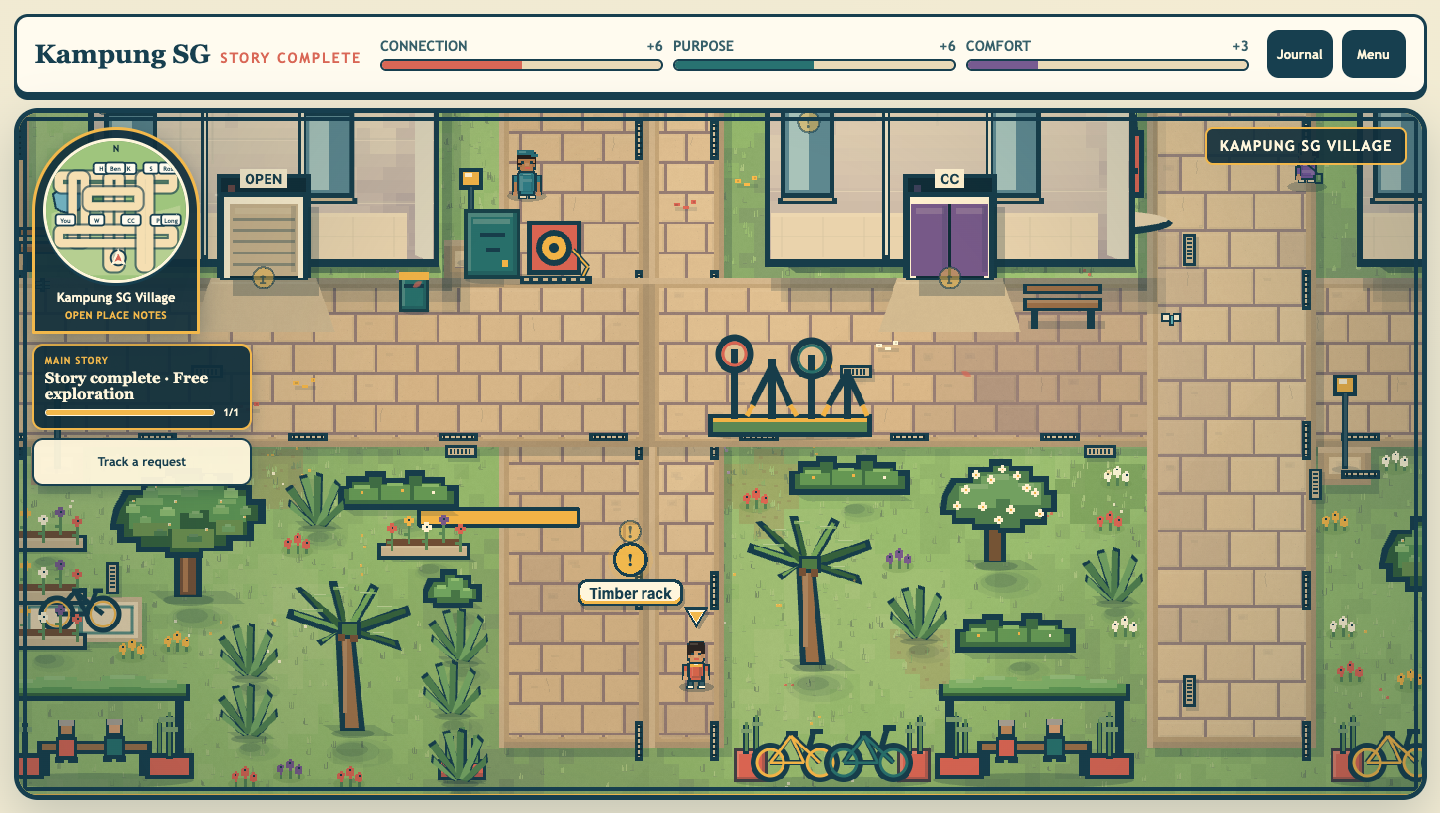
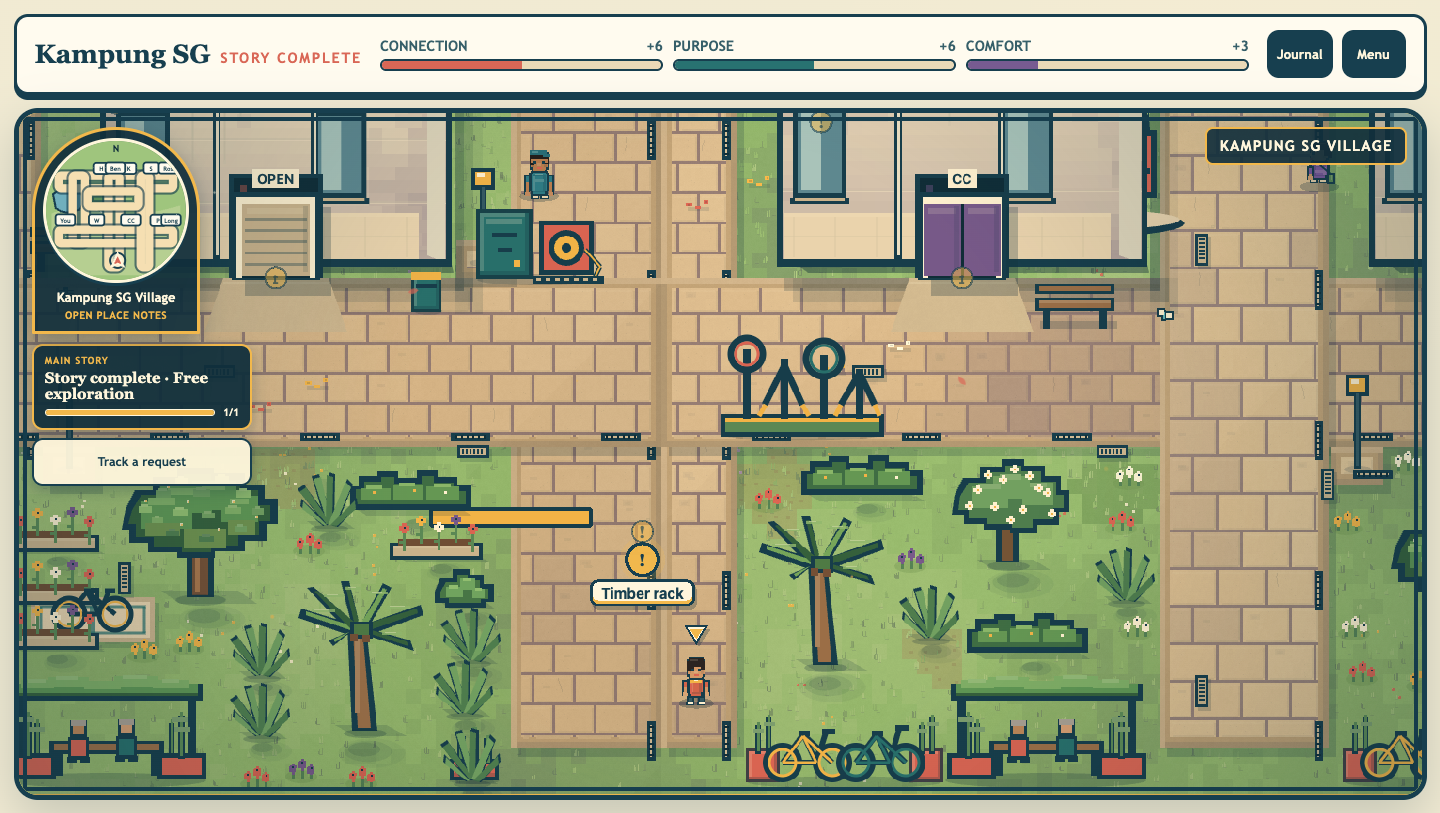
Render the estate isometrically behind ?iso=1
The whole campaign now draws in isometric - HUD, quest tracker, minimap, NPCs,
doors, errands and all - not a preview page. Screenshot at
docs/screenshots/34-isometric-estate.png.

It rides on the seam from the previous commit, which is why this is a small
change rather than a rewrite of a 5,000-line scene. EstateScene overrides
screenX/screenY/depthAt with worldToIso and isoDepth, and swaps two renderers:
the four baked top-down tiles become one isometric ground plane, and the flat
facade textures become isometric volumes. Everything else - residents, doors,
markers, step puffs, the carried item - was already going through the seam and
needed no edit at all.

Physics never moved. Every collider, door, route and spawn is still authored
and simulated in top-down world space; only the drawing is projected. That is
what makes this safe to try.

Depth sorting replaces the top-down occlusion overlay: buildings sort on their
far corner, so a neighbour behind one is drawn behind it.

Default is unchanged and verified: 72/72 with the flag off, so / is exactly
what it was. Add ?iso=1 to see the other one.

Known rough edges, not claimed as finished: props, shelters and planting are
still top-down textures standing as billboards, and the shelter roof in
particular reads wrong. The isometric ground has not had the grass-clumping
pass the top-down ground just got.

AGENTS.md is corrected in this commit. Its one-command isometric rollback is
[…]

diff --git a/src/game/campaignScene.ts b/src/game/campaignScene.ts
@@ -72,6 +72,16 @@ import {
 } from "./threeQuarterArt.js";
 import { bakeWithGrain } from "./textureGrain.js";
 import {
+  isoBuildingTextureBounds,
+  paintIsoBuilding,
+} from "./iso/isoBuildings.js";
+import { paintIsoTerrain } from "./iso/isoTerrain.js";
+import {
+  isoCanvasForWorld,
+  isoDepth,
+  worldToIso,
+} from "./iso/projection.js";
+import {
   movementSurfaceAt,
   stepIntervalFor,
   walkFrameAt,
@@ -320,6 +330,12 @@ export interface CampaignGameOptions {
   playerSpeed?: number;
   reducedMotion?: boolean;
   renderer?: "auto" | "canvas";
+  /**
+   * Render the estate isometrically. Opt-in while the direction is evaluated -
+   * physics stays in top-down world space either way, so this only changes
+   * where things are drawn.
+   */
+  isometric?: boolean;
 }
 
 class DoorView {
@@ -2520,6 +2536,9 @@ export class EstateScene extends WalkableScene {
   private puddleRipplePhase = 0;
   private residentArrangement: "routes" | "monsoon" | "gathering" = "routes";
   private buildingOcclusionViews: BuildingOcclusionView[] = [];
+  private readonly isometric: boolean;
+  private isoOriginX = 0;
+  private isoOriginY = 40;
   private shelterSprites: Phaser.GameObjects.Image[] = [];
   private shelterColliderIds = new Set<string>();
 
@@ -2529,6 +2548,28 @@ export class EstateScene extends WalkableScene {
     options: CampaignGameOptions,
   ) {
     super("estate", "estate", callbacks, getState, options);
+    this.isometric = options.isometric === true;
+    if (this.isometric) {
+      this.isoOriginX = isoCanvasForWorld(ESTATE_WIDTH, ESTATE_HEIGHT).originX;
+    }
+  }
+
+  /* The projection seam. Physics never sees these - they only decide where a
+     sprite is drawn and in what order. See WalkableScene.screenX. */
+
+  protected override screenX(worldX: number, worldY: number): number {
+    if (!this.isometric) return worldX;
+    return worldToIso(worldX, worldY).x + this.isoOriginX;
+  }
+
+  protected override screenY(worldX: number, worldY: number): number {
+    if (!this.isometric) return worldY;
+    return worldToIso(worldX, worldY).y + this.isoOriginY;
+  }
+
+  protected override depthAt(worldX: number, worldY: number, layer = 0): number {
+    if (!this.isometric) return super.depthAt(worldX, worldY, layer);
+    return isoDepth(worldX, worldY, layer);
   }
 
   protected cameraZoomForViewport(width: number): number {
@@ -2545,8 +2586,13 @@ export class EstateScene extends WalkableScene {
     this.locationId = "estate";
     this.cameras.main.setBackgroundColor("#9fc079");
     ensureCampaignArtTextures(this, this.getState().playerAppearance);
-    this.createBakedExteriorTiles();
-    this.createBuildingOcclusionLayers();
+    if (this.isometric) {
+      this.createIsoGround();
+      this.createIsoBuildings();
+    } else {
+      this.createBakedExteriorTiles();
+      this.createBuildingOcclusionLayers();
+    }
     for (const zone of ESTATE_BUILDING_COLLISION_ZONES) {
       this.addObstacle(zone.x, zone.y, zone.width, zone.height);
     }
@@ -2582,6 +2628,10 @@ export class EstateScene extends WalkableScene {
       ESTATE_HEIGHT,
       data.spawn ?? { x: 700, y: 400 },
     );
+    if (this.isometric) {
+      const canvas = isoCanvasForWorld(ESTATE_WIDTH, ESTATE_HEIGHT);
+      this.cameras.main.setBounds(0, 0, canvas.width, canvas.height + 80);
+    }
     this.updateBuildingOcclusion();
     this.drawConsequences();
   }
@@ -3029,6 +3079,69 @@ export class EstateScene extends WalkableScene {
     for (const [index, [npcId, x, y]] of gathering.entries()) {
       this.moveNpcTo(npcId, x, y);
       this.poseNpc(npcId, index < 4 ? "down" : "up");
+    }
+  }
+
+  /**
+   * The isometric ground plane, baked once into a single texture.
+   *
+   * Same shape as the top-down bake: paint flat with Graphics, then run the
+   * per-pixel grain pass, because Graphics can only lay down constant fills.
+   */
+  private createIsoGround(): void {
+    const canvas = isoCanvasForWorld(ESTATE_WIDTH, ESTATE_HEIGHT);
+    const height = canvas.height + 80;
+    const key = "estate-iso-ground";
+    if (!this.textures.exists(key)) {
+      const graphics = this.make.graphics({ x: 0, y: 0 });
+      paintIsoTerrain(graphics, {
+        worldX: 0,
+        worldY: 0,
+        worldWidth: ESTATE_WIDTH,
+        worldHeight: ESTATE_HEIGHT,
+        originX: this.isoOriginX,
+        originY: this.isoOriginY,
+      });
+      const flatKey = `${key}-flat`;
+      graphics.generateTexture(flatKey, canvas.width, height);
+      graphics.destroy();
+      bakeWithGrain(this, flatKey, key, canvas.width, height, {
+        amplitude: 9,
+        falloff: 0.22,
+      });
+    }
+    this.add.image(0, 0, key).setOrigin(0).setDepth(0);
+  }
+
+  /**
+   * Buildings as isometric volumes.
+   *
+   * Each bakes to its own texture with its own bounds box, and sorts on its
+   * far corner so a neighbour standing behind it is drawn behind it. The
+   * top-down build's separate occlusion overlay is not needed here - depth
+   * sorting does that job.
+   */
+  private createIsoBuildings(): void {
+    for (const definition of ESTATE_BUILDINGS) {
+      const { x, y, width, height } = definition.bounds;
+      const box = isoBuildingTextureBounds(definition);
+      const key = `iso-building:${definition.id}`;
+      if (!this.textures.exists(key)) {
+        const graphics = this.make.graphics({ x: 0, y: 0 });
+        paintIsoBuilding(graphics, definition, -box.left, -box.top);
+        const flatKey = `iso-building-flat:${definition.id}`;
+        if (this.textures.exists(flatKey)) this.textures.remove(flatKey);
+        graphics.generateTexture(flatKey, box.width, box.height);
+        graphics.destroy();
+        bakeWithGrain(this, flatKey, key, box.width, box.height, {
+          amplitude: 8,
+          falloff: 0.12,
+        });
+      }
+      this.add
+        .image(box.left + this.isoOriginX, box.top + this.isoOriginY, key)
+        .setOrigin(0)
+        .setDepth(isoDepth(x + width, y + height, 2));
     }
   }
 

diff --git a/src/main.ts b/src/main.ts
@@ -218,6 +218,9 @@ const SMOKE_MODE =
   new URLSearchParams(window.location.search).get("smoke") === "1";
 const FORCE_CANVAS =
   new URLSearchParams(window.location.search).get("renderer") === "canvas";
+/** Opt into the isometric estate while the direction is being evaluated. */
+const ISOMETRIC =
+  new URLSearchParams(window.location.search).get("iso") === "1";
 const REDUCED_MOTION = window.matchMedia("(prefers-reduced-motion: reduce)");
 const audio = new KampungAudio(readStoredAudioSettings());
 const smokeWindow = window as Window & {
@@ -882,6 +885,7 @@ async function startCampaign(state: CampaignStateV1): Promise<void> {
         playerSpeed: DEMO_MODE ? 260 : undefined,
         reducedMotion: REDUCED_MOTION.matches,
         renderer: FORCE_CANVAS ? "canvas" : "auto",
+        isometric: ISOMETRIC,
       },
     );
     attemptHandle = createdHandle;

diff --git a/AGENTS.md b/AGENTS.md
@@ -105,26 +105,27 @@ More than one agent is often live in this working tree at the same time
 
 ## Dropping the isometric direction (rollback)
 
-The isometric art direction is **opt-in and unlinked**. It lives at
-`/iso-preview.html`; the judged game at `/` is untouched top-down and loads
-none of it. If the direction is rejected, remove it with one command:
+**This changed on 2026-08-09 — the one-command rollback below no longer works.**
 
-```bash
-rm -rf src/game/iso src/iso-preview.ts iso-preview.html \
-       src/game/__tests__/isoWorld.test.ts
-```
+The isometric estate is now wired into the shipped campaign behind `?iso=1`
+(`EstateScene` in `campaignScene.ts` imports `iso/isoTerrain`, `iso/isoBuildings`
+and `iso/projection`). Deleting `src/game/iso/` therefore breaks the build.
 
-Nothing else needs editing. `vite.config.ts` adds the second entry only when
-`iso-preview.html` exists, and no shipped module imports from `src/game/iso/`
-(the shared grain pass deliberately lives at `src/game/textureGrain.ts` for
-exactly this reason — do not move it back).
+`/` still renders top-down by default and is unaffected without the flag, so
+the *visual* rollback is just "do not pass `?iso=1`". To remove the direction
+outright you must now also strip the `isometric` option from
+`CampaignGameOptions`, the `screenX`/`screenY`/`depthAt` overrides and
+`createIsoGround`/`createIsoBuildings` from `EstateScene`, and the `ISOMETRIC`
+flag in `main.ts`.
 
-**Verified, not assumed:** run in a throwaway worktree with those paths
-deleted, the full gate passed — typecheck clean, **145/155** tests (the 10
-isometric tests go with them), build green, **67/67 smoke** (re-measured
-2026-08-07 at `48efcda`, after the village re-setting and the isometric
-contact-shadow pass). Re-verify the same way if the coupling ever changes,
-and update these numbers with what you actually measured.
+The projection seam itself (`screenX`/`screenY`/`depthAt` on `WalkableScene`)
+should stay either way — its defaults are the identity, it costs nothing, and it
+is what keeps physics in top-down world space while the drawing moves.
+
+That deletion was **verified green on 2026-08-07 at `48efcda`** (145/155 tests,
+67/67 smoke, in a throwaway worktree). Those figures describe the code as it was
+before the estate was wired up, and are kept only as a record — do not re-run
+that command expecting it to pass today.
 
 **Before you diagnose a smoke failure, count the orphaned browsers.**
 `pgrep -f "user-data-dir=/var/folders/.*kampung-smoke-" | wc -l`. Each run can
